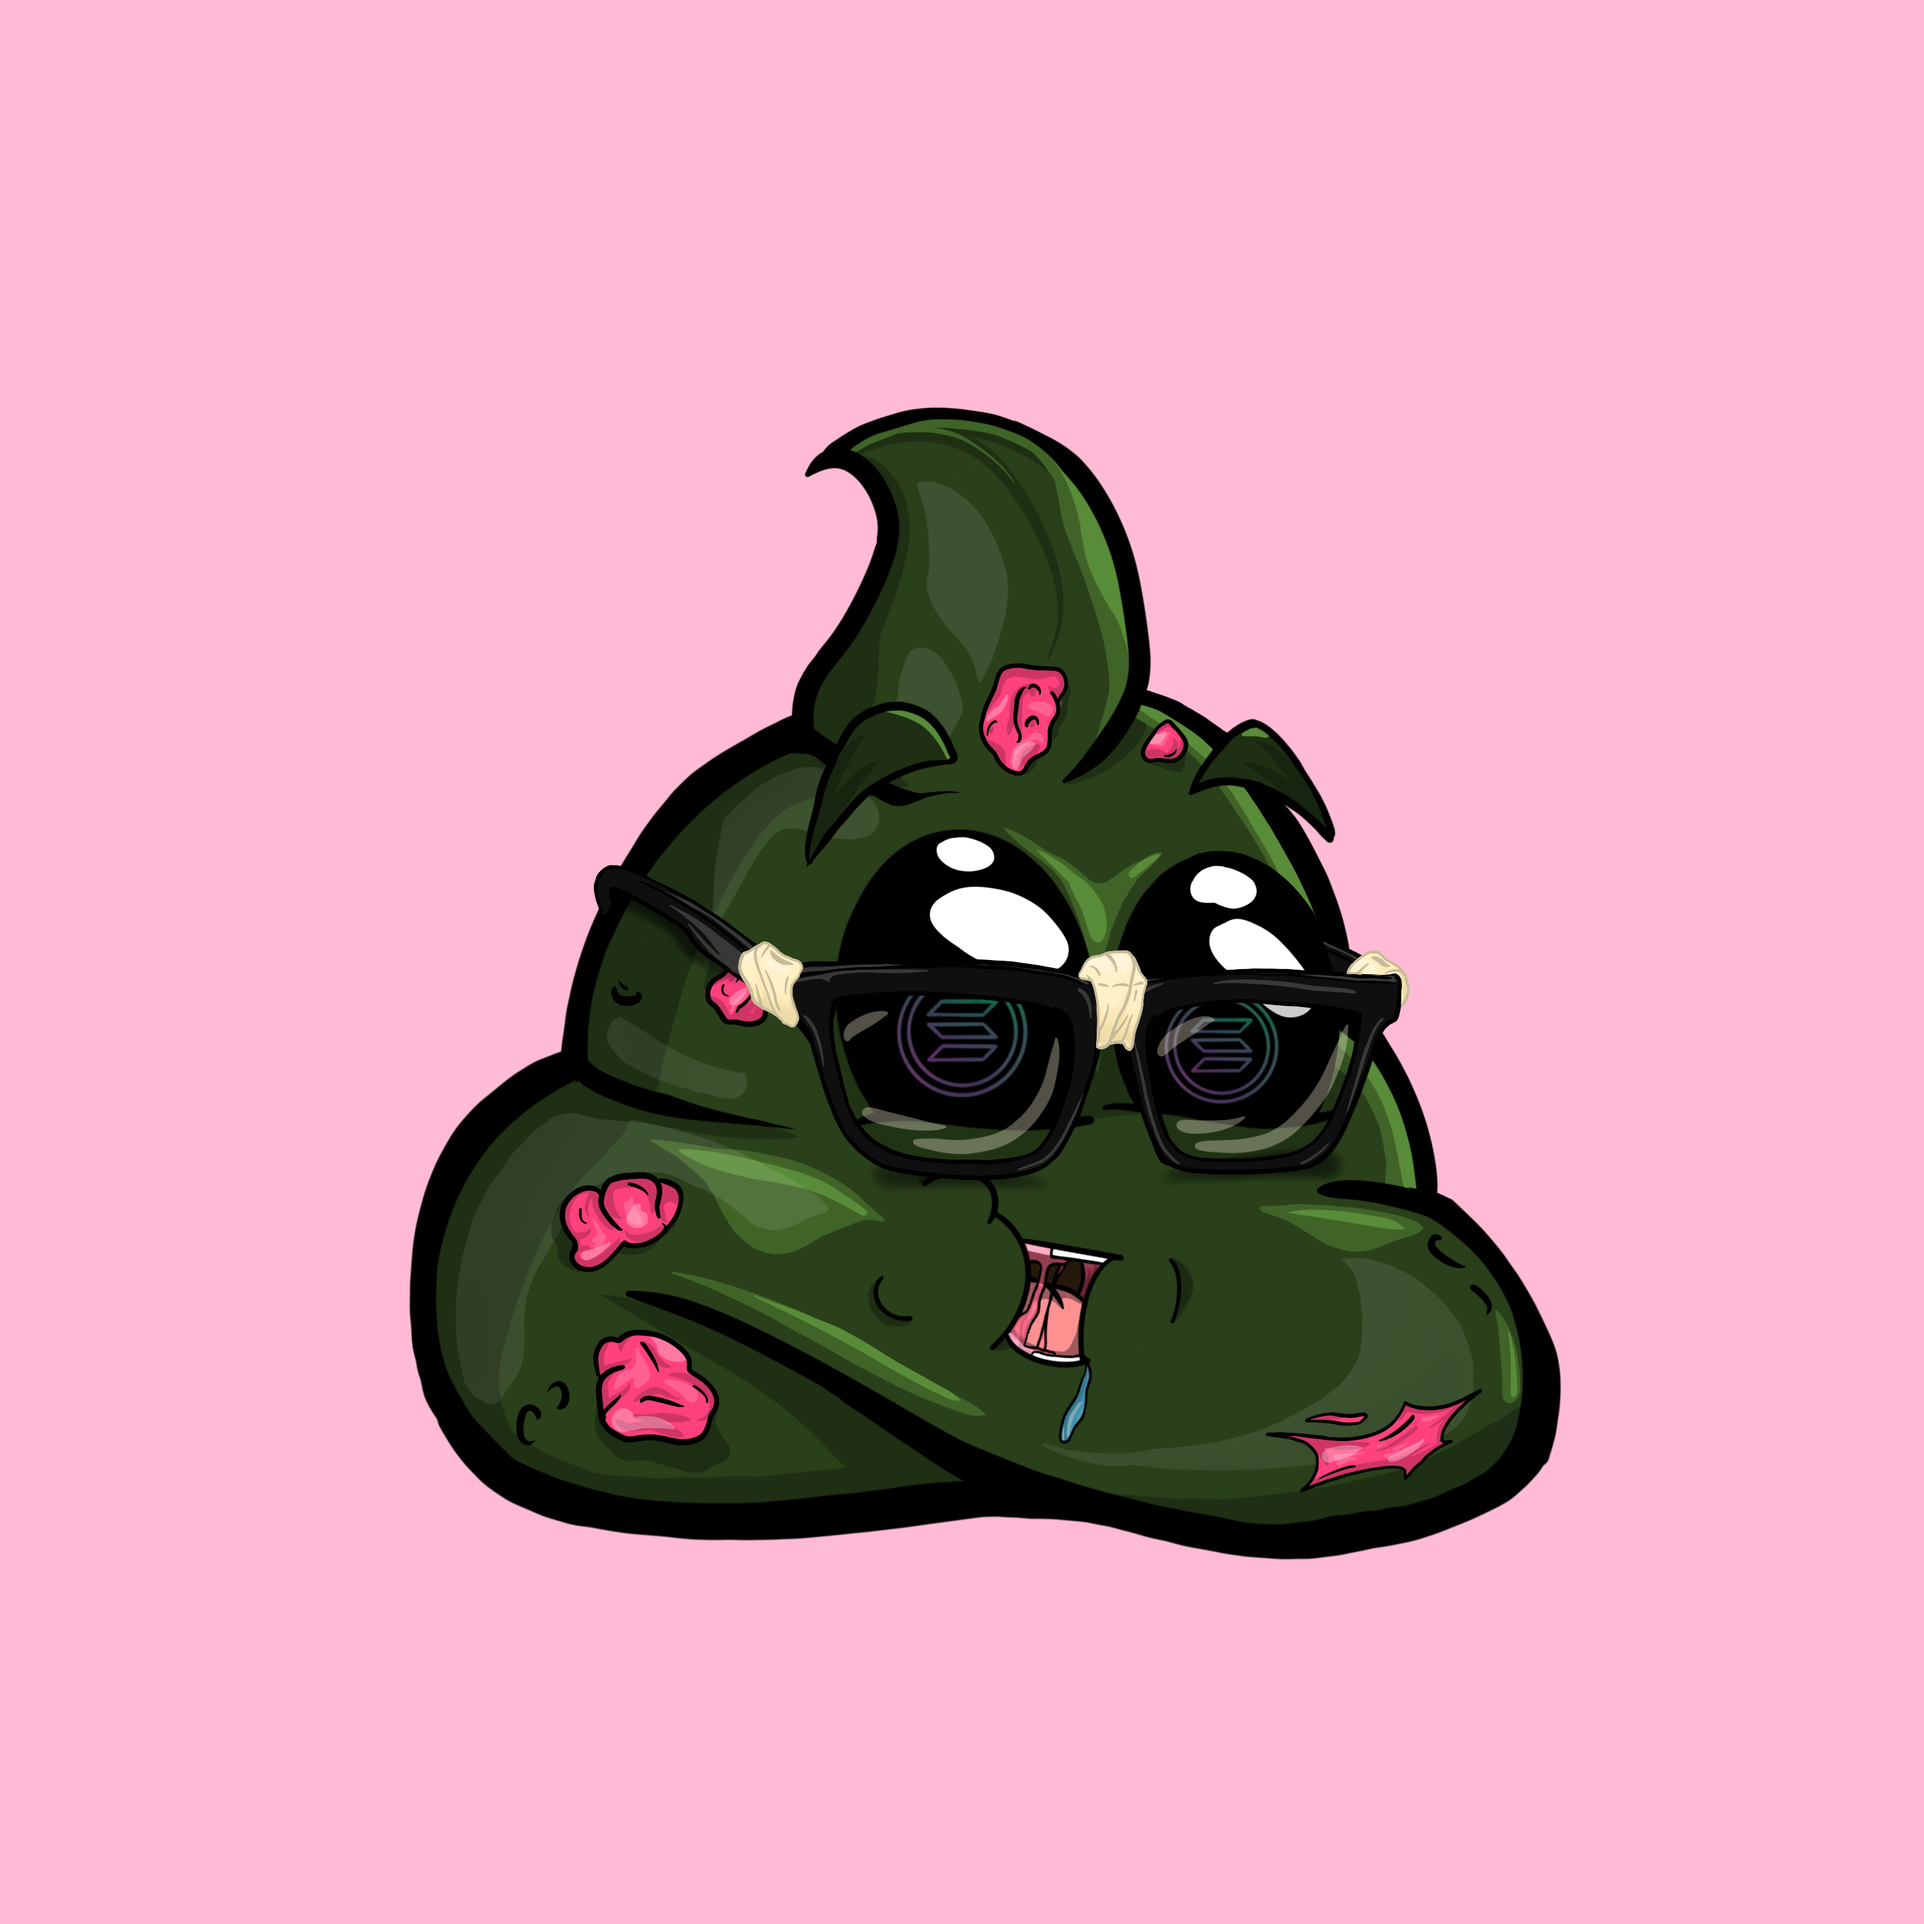
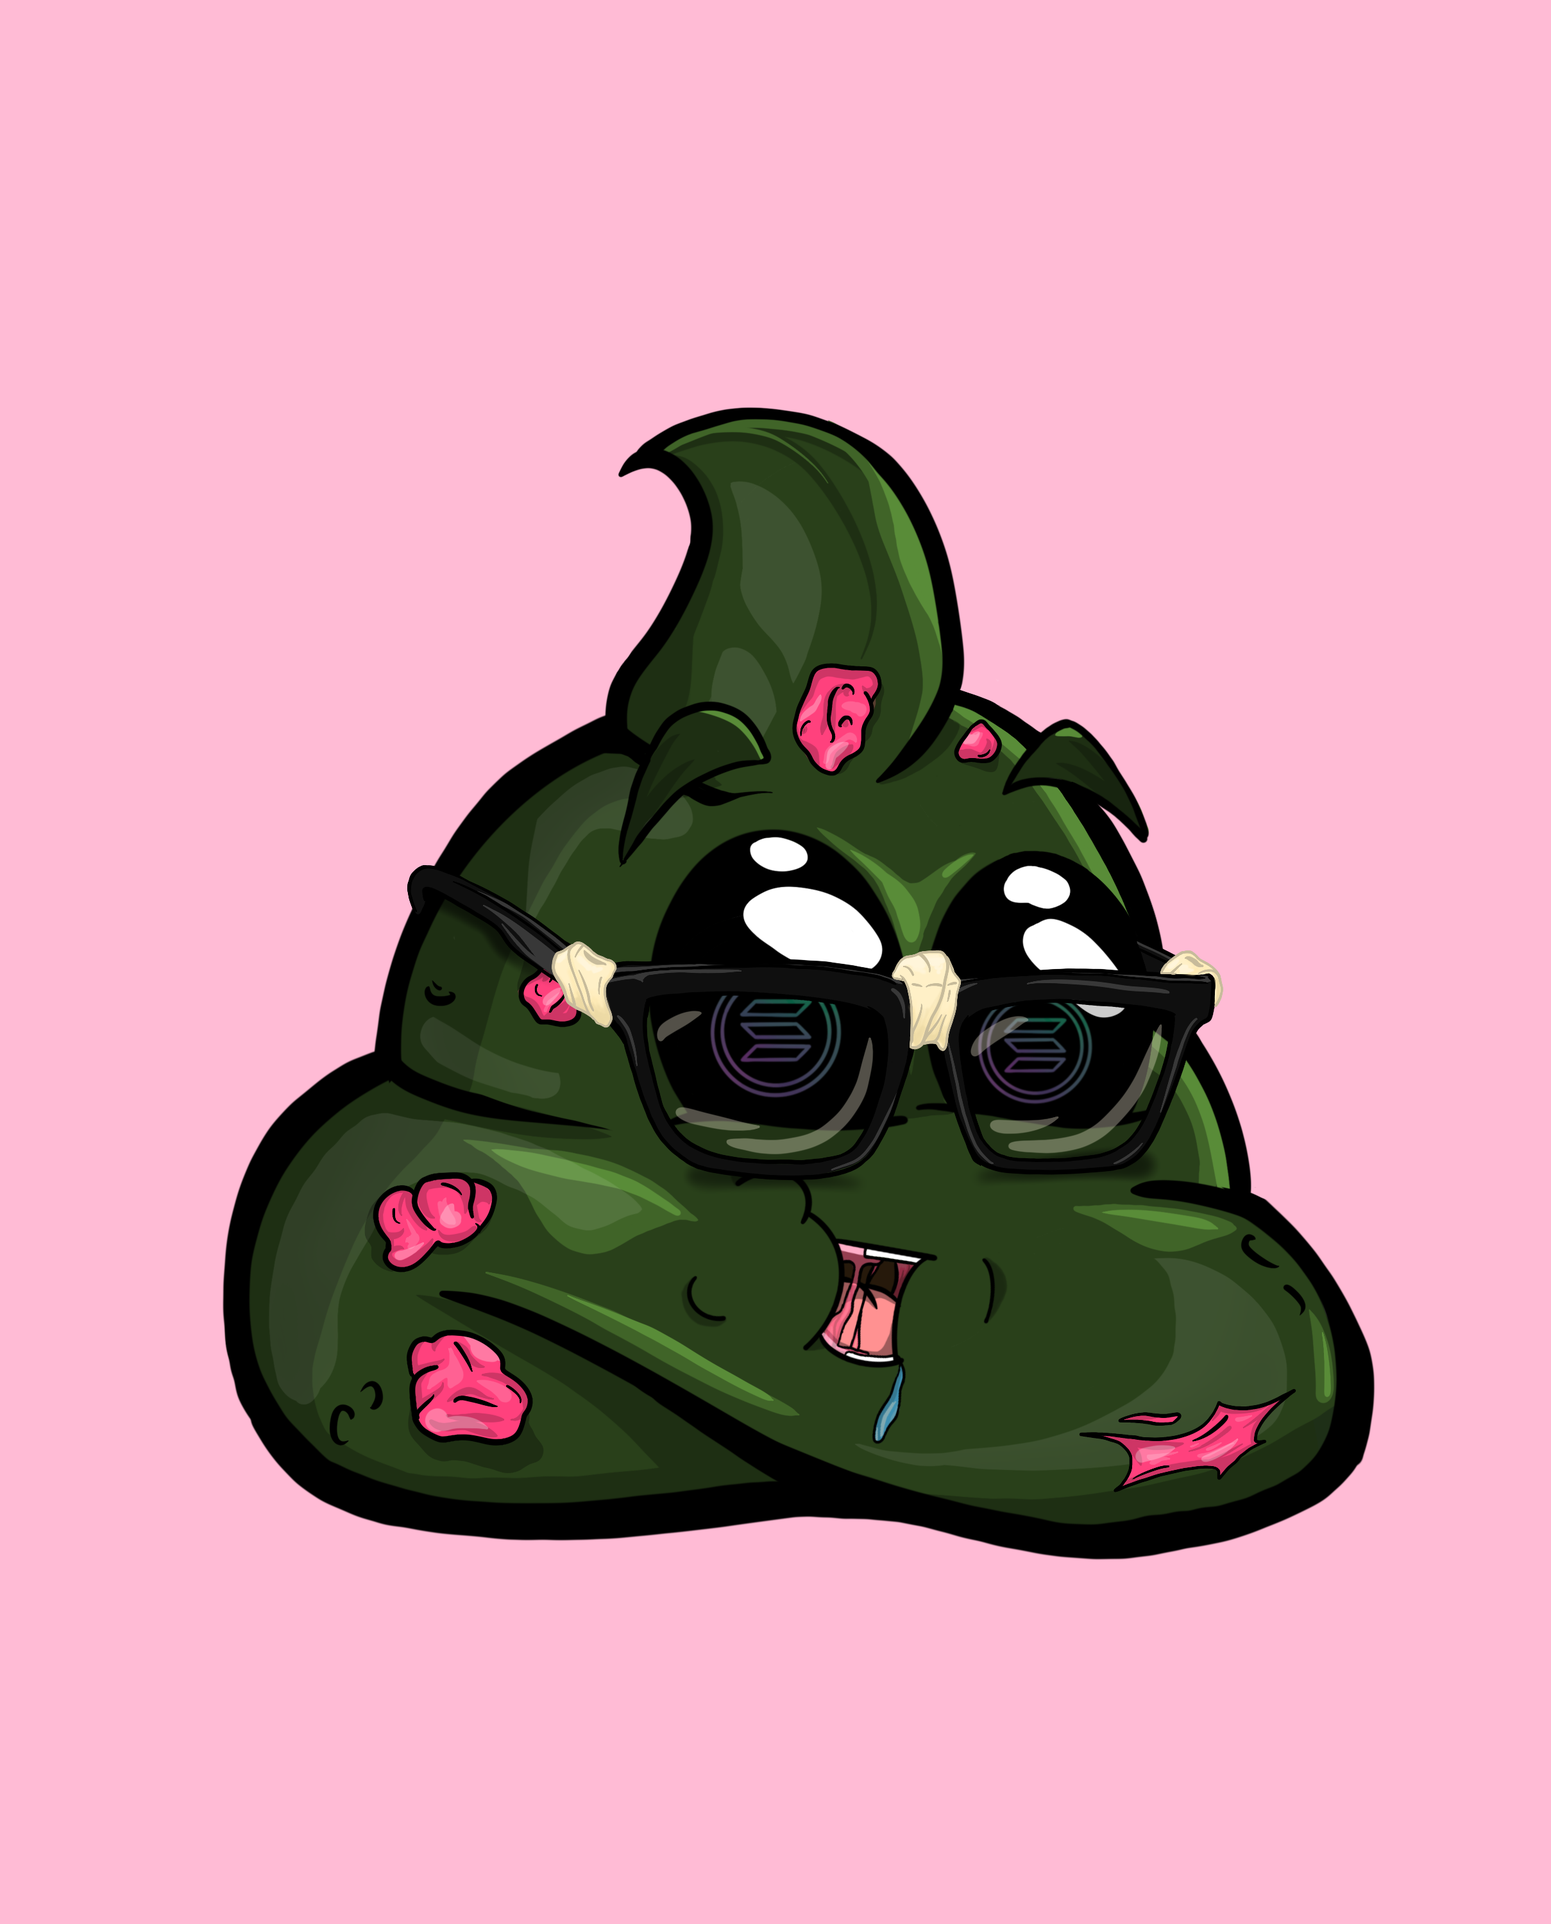
Small Website Fixes
Adjusting image styling, fixing cropped image, adjusting GuidetoBuy Section

Changed region(s): [[0.1241, 0.217, 0.8995, 0.837], [0.4032, 0.775, 0.4342, 0.806]]

diff --git a/src/components/GuideToBuy.tsx b/src/components/GuideToBuy.tsx
@@ -3,28 +3,28 @@
 export const GuideToBuy = () => {
     return (
         <div id="guide">
-            <div className="container">
+            <div className="container" >
                 <h2 className="font-bold text-6xl mb-8 team-card" style={{ fontFamily: "Montserrat, sans-serif", fontWeight: 900, marginBottom: "20px", color: "white" }}>Minting Guide</h2>
-                <p style={{ fontFamily: "Montserrat, sans-serif", fontWeight: 500, fontSize: "18px", color: "white" }}>Once minting begins, you will be able to connect your wallet and begin minting.</p>
+                <p style={{ fontFamily: "Montserrat, sans-serif", fontWeight: 500, fontSize: "18px", color: "white", textAlign:"center" }}>Once minting begins, you will be able to connect your wallet and begin minting.</p>
                 <ol style={{ fontFamily: "Montserrat, sans-serif", fontWeight: 500, fontSize: "18px", color: "white" }}>
-                    <li style={{marginBottom: "20px"}}>
+                    <li style={{marginBottom: "20px", textAlign:"center"}}>
                         1. Connect your wallet using this button.
-                        <img src="ConnectWallet.png" alt="connectWallet"/>
+                        <img src="ConnectWallet.png" alt="connectWallet" style={{display: 'block', marginLeft: 'auto', marginRight: 'auto', }}/>
                     </li>
-                    <li style={{marginBottom: "20px"}}>
+                    <li style={{marginBottom: "20px", textAlign:"center"}}>
                         2. Select your wallet.
-                        <img src="SelectWallet.png" alt="SelectWallet"/>
+                        <img src="SelectWallet.png" alt="SelectWallet" style={{display: 'block', marginLeft: 'auto', marginRight: 'auto', }}/>
                     </li>
-                    <li style={{marginBottom: "20px"}}>
+                    <li style={{marginBottom: "20px", textAlign:"center"}}>
                         3. Once your wallet is approved, you should be able to mint.
                     </li>
-                    <li style={{marginBottom: "20px"}}>
+                    <li style={{marginBottom: "20px", textAlign:"center"}}>
                         4. A screen like the image below should appear. Approve the transaction. 
-                        <img src="approveTransaction.png" alt="approveTransaction" />
+                        <img src="approveTransaction.png" alt="approveTransaction" style={{display: 'block', marginLeft: 'auto', marginRight: 'auto', }} />
                     </li>
-                    <li style={{marginBottom: "20px"}}>
+                    <li style={{marginBottom: "20px", textAlign:"center"}}>
                         5. If you look into your Collectibles Tab in your wallet, your NFT should appear there.
-                        <img src="NFTinWallet.png" alt="NFT"/>
+                        <img src="NFTinWallet.png" alt="NFT" style={{display: 'block', marginLeft: 'auto', marginRight: 'auto', }}/>
                     </li>
                 </ol>
             </div>

diff --git a/src/components/Header.tsx b/src/components/Header.tsx
@@ -4,7 +4,7 @@ import Top7 from '../Top7.jpg';
 import Top4 from '../Top4.jpg';
 import Top3 from '../Top3.png';
 import Top1 from '../Top1.png';
-import Top11 from '../Top7.jpg';
+import Top11 from '../Top11.jpg';
 import Top2 from '../Top2.png';
 import Top9 from '../Top9.png';
 import Top8 from '../Top8.png';
@@ -48,12 +48,12 @@ const Content = () => {
       <div className="container">
         <div className="grid grid-cols-1 md:grid-cols-2" style={{ width: "100%" }}>
           <div className="columnsTwo" style={{textAlign: "center"}}>
-            <img src={MagicSolanaShit} alt="" style={{ marginTop: "0px", display: "block", marginLeft: "auto", marginRight: "auto" }} />
+            <img id="main-img" src={MagicSolanaShit} alt="" style={{ marginTop: "0px", display: "block", marginLeft: "auto", marginRight: "auto" }} />
             <div className="text-6xl columnTwo" style={{ fontFamily: "Montserrat, sans-serif", fontWeight: 900, fontStyle: "italic", fontSize: "22px", color: "black" }}>6,969 <u>Unique</u> Shits!</div>
             <div style={{ fontFamily: "Montserrat, sans-serif", fontWeight: 700, paddingTop: "10px", width: "70%", textAlign:"center", margin:"auto" }}>Magic Solana Shits are a collection of 6,969 unique generative NFT's existing on the Solana Blockchain. This project is the SHIT! </div>
             <div className="mint-container" style={{justifyContent: "center", display: "block", marginLeft: "auto", marginRight: "auto"}}>
               <h2  style={{ fontFamily: "Montserrat, sans-serif", fontWeight: 800, fontSize: "20px"}}>Click the button below to MINT!</h2>
-              <h4 style={{ fontFamily: "Montserrat, sans-serif", fontWeight: 700, fontSize: "20px"}}>Release Date: <b>October 8th</b></h4>
+              <h4 style={{ fontFamily: "Montserrat, sans-serif", fontWeight: 700, fontSize: "20px"}}>Release Date: <b>October 8th, 8PM EST</b></h4>
               <h4 style={{ fontFamily: "Montserrat, sans-serif", fontWeight: 700, fontSize: "20px"}}>Current Cost: <b>2 SOL</b></h4>
             <div style={{ padding: "13px", justifyContent: "center" }}>
               <Home
@@ -75,7 +75,7 @@ const Content = () => {
 
               <div style={{ display: 'inline-block', maxWidth: '100%', overflow: 'hidden', position: 'relative', boxSizing: 'border-box', margin: 0 }}>
                 <div style={{ boxSizing: 'border-box', display: 'block', maxWidth: '100%' }}>
-                  <img src={Top7} alt="ShitOne" style={{ width: '200px', height: "200px" }} />
+                  <img src={Top7} alt="ShitOne" style={{ width: '200px', height: "200px"}} />
                 </div>
               </div>
               <div style={{ display: 'inline-block', maxWidth: '100%', overflow: 'hidden', position: 'relative', boxSizing: 'border-box', margin: 0 }}>

diff --git a/src/components/Navigation.tsx b/src/components/Navigation.tsx
@@ -6,13 +6,6 @@ export const Navigation = () => {
   return (
     <nav id='menu' className='navbar navbar-default navbar-transparent' >
       <div className='container' >
-        <div className='navbar-header' >
-          <a className='navbar-brand page-scroll' href='#page-top'>
-            {" "}{
-            " "}
-          </a>{' '}
-        </div>
-
         <div
           className='collapse navbar-collapse'
           id='bs-example-navbar-collapse-1'
@@ -48,11 +41,11 @@ export const Navigation = () => {
                 Team
               </a>
             </li>
-            <li>
+            {/* <li>
               <a href='#Testimonials' className='page-scroll'>
                 Testimonials
               </a>
-            </li>
+            </li> */}
             
             <li>
               <a href='https://twitter.com/magicsolanashit' className='page-scroll'>

diff --git a/src/styles.css b/src/styles.css
@@ -370,7 +370,7 @@ display: flex;
     position: relative;
     width: 75%;
     margin-left: 70px;
-    height: 260px;
+    height: 270px;
     background: #ffec83;
     color: #111;
     border: 2px solid #000;
@@ -832,6 +832,7 @@ color: var(--main-color);
 .MuiButton-label {
   font-size: 12px;
   font-weight: 700;
+  color: white;
 }
 .makeStyles-root-4 .MuiDialogTitle-root .MuiTypography-root {
   font-size: 18px;
@@ -842,4 +843,13 @@ color: var(--main-color);
 #guide {
   /* background: #38B6FF; */
   background: #7f5144;
+}
+
+@media screen and (max-width: 767px) { 
+
+  #main-img{
+    top: 55px;
+    position:relative;
+padding: 65px 0 65px 0;
+  } 
 }

diff --git a/src/components/FAQ.tsx b/src/components/FAQ.tsx
@@ -158,7 +158,7 @@ export const Faq = () => {
           </AccordionSummary>
           <AccordionDetails>
             <Typography>
-              <li>October 8th!</li>
+              <li>October 8th, 8PM EST!</li>
             </Typography>
           </AccordionDetails>
         </Accordion>
